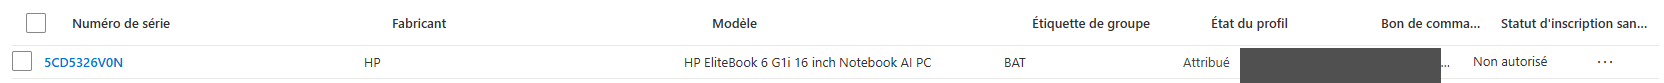
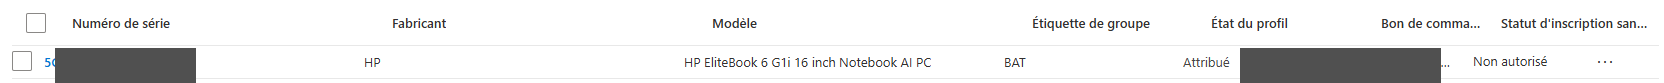
SP5+SP7 : capture serveur d'impression + numéros de série masqués
SP5
- Remplace la figure 'Fiche d'inventaire' (interprétation erronée de
  la capture) par une figure 'Serveur d'impression' placée dans la
  bonne section
- Supprime le fichier sp5-inventaire.png devenu inutile

SP7
- Masque les numéros de série sur la capture d'inventaire et sur le
  mail SAV pour cohérence entre les deux (anonymisation accrue)

Claude-Session: https://claude.ai/code/session_013LfGXyT4UtTbtZxGUV6oXd

Changed region(s): [[0.0312, 0.5783, 0.125, 1.0]]

diff --git a/situations/sp5-imprimante-chantier.html b/situations/sp5-imprimante-chantier.html
@@ -107,11 +107,6 @@
           <figcaption>Efficient IP : fiche de réservation DHCP de l'imprimante avec son adresse MAC et son nom DNS.</figcaption>
         </figure>
 
-        <figure>
-          <img src="../assets/screenshots/sp5-inventaire.png" alt="Fiche d'inventaire de l'imprimante avec son hostname et son adresse IP">
-          <figcaption>Fiche d'inventaire : hostname et adresse IP de l'imprimante rattachés au référentiel.</figcaption>
-        </figure>
-
         <h2 id="scan">Service scan-to-mail</h2>
         <p>
           L'imprimante devait également permettre d'envoyer les documents
@@ -146,6 +141,11 @@
               seul point de pilotage pour les mises à jour de drivers et
               le suivi des files d'impression.</li>
         </ul>
+
+        <figure>
+          <img src="../assets/screenshots/sp5-serveur-impression.png" alt="Imprimante listée sur le serveur d'impression avec son hostname et son adresse IP">
+          <figcaption>Serveur d'impression : l'imprimante apparaît dans la liste centralisée avec son hostname et son adresse IP.</figcaption>
+        </figure>
 
         <h2 id="tests">Tests et mise en service</h2>
         <p>
